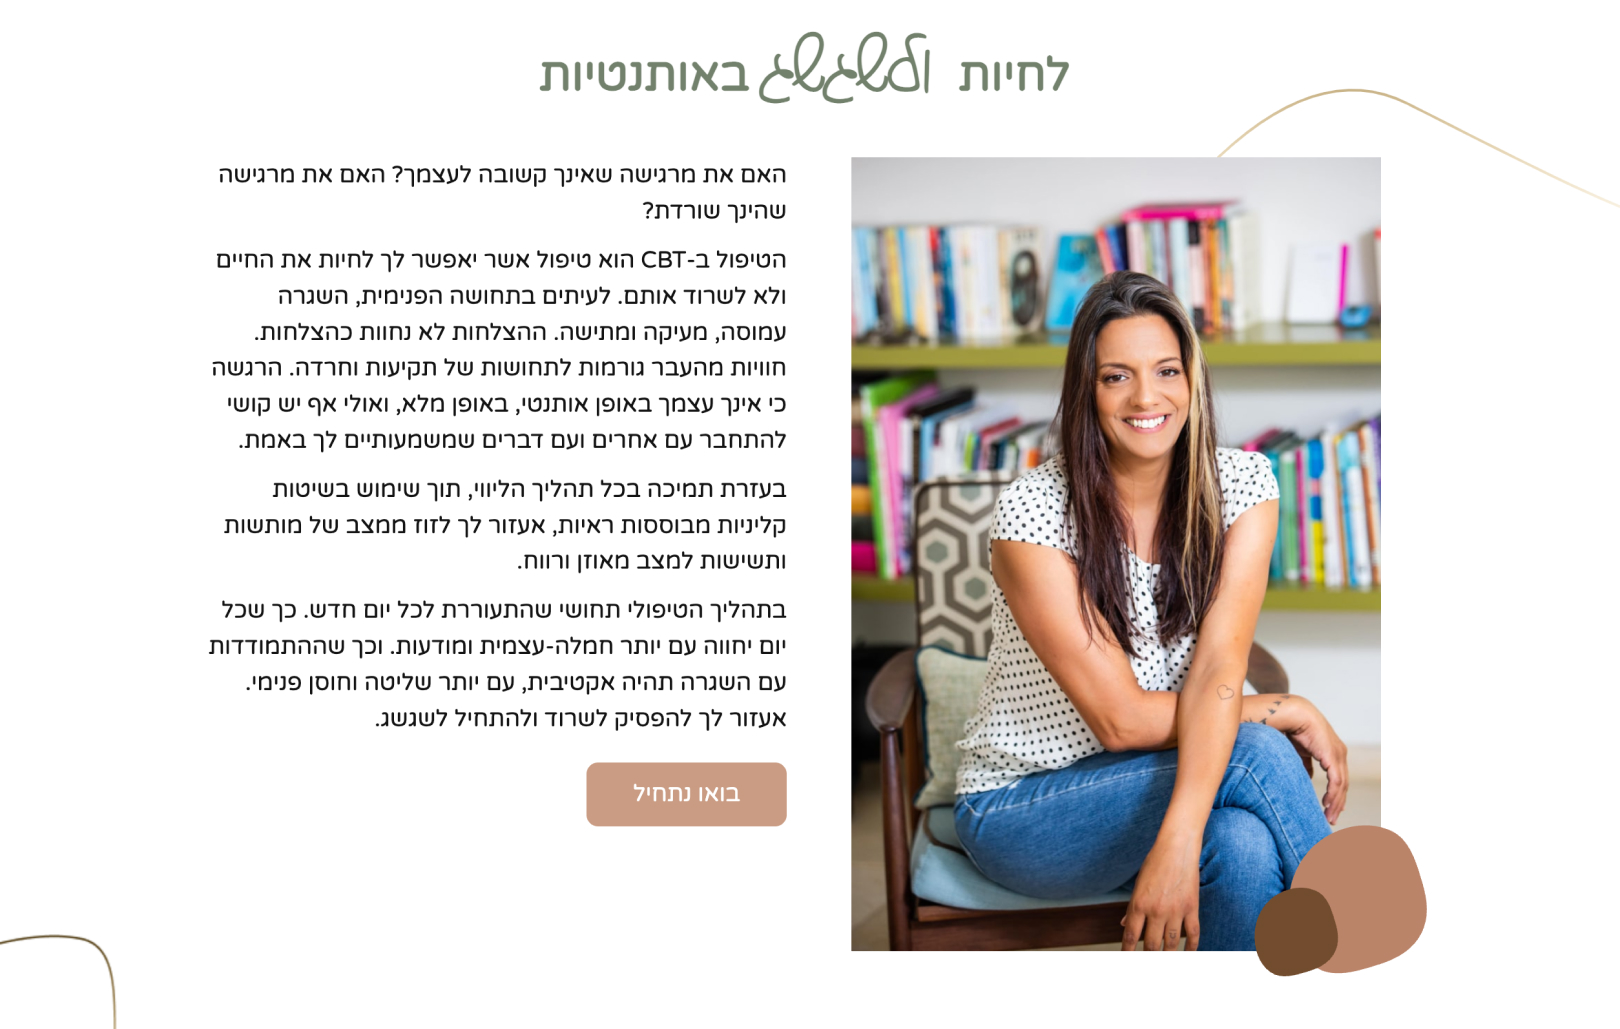
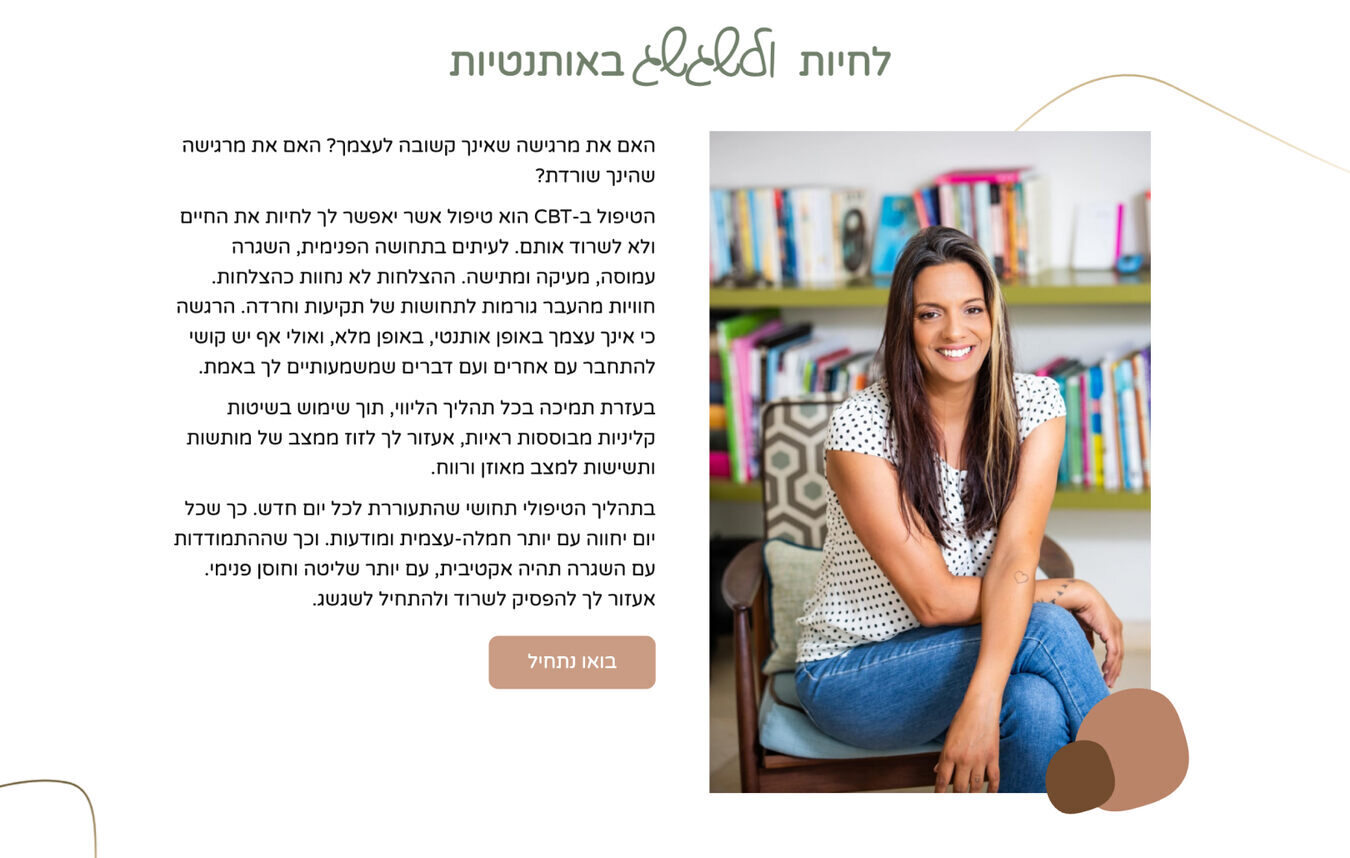
fix footer hopefully. [todo] check responsivity of footer. added compressed images and an Open graph image

diff --git a/src/css/global/global-styles.css b/src/css/global/global-styles.css
@@ -28,7 +28,7 @@ main {
 
 /* A huge, trendy, headline */
 h1[data-role="big"] {
-  --step-6: clamp(3.32rem, calc(2.21rem + 5.38vw), 15rem);
+  --step-6: clamp(2.99rem, calc(1.95rem + 6.00vw), 15rem);
   font-size: var(--step-6);
 }
 
@@ -294,3 +294,5 @@ p {
 .text-step-6 { font-size: var(--step-6); }
 .text-step--1 { font-size: var(--step--1); }
 .text-step--2 { font-size: var(--step--2); }
+
+.tac { text-align: center; }

diff --git a/src/css/blocks/form.css b/src/css/blocks/form.css
@@ -52,11 +52,12 @@
 
 .form [type="submit"] {
   border-radius: var(--border-radius);
-  display: block;
+  grid-column: span 2;
+  /* justify-self: end; */
 }
 
 .form__whatsapp {
-  display: block;
+  display: inline-block;
   grid-column: span 2;
   color: var(--color-accent-2);
   text-decoration: underline;

diff --git a/src/css/blocks/project.css b/src/css/blocks/project.css
@@ -30,4 +30,14 @@
     border-top: 1px solid var(--color-mid-light);
     border-top-width: 90%;
   }
+
+  .wrapper {
+    --gutter: 0em;
+    --wrapper-width: 100%;
+  }
+
+  .project__image {
+    width: 100%;
+    margin: 0 auto
+  }
 }
